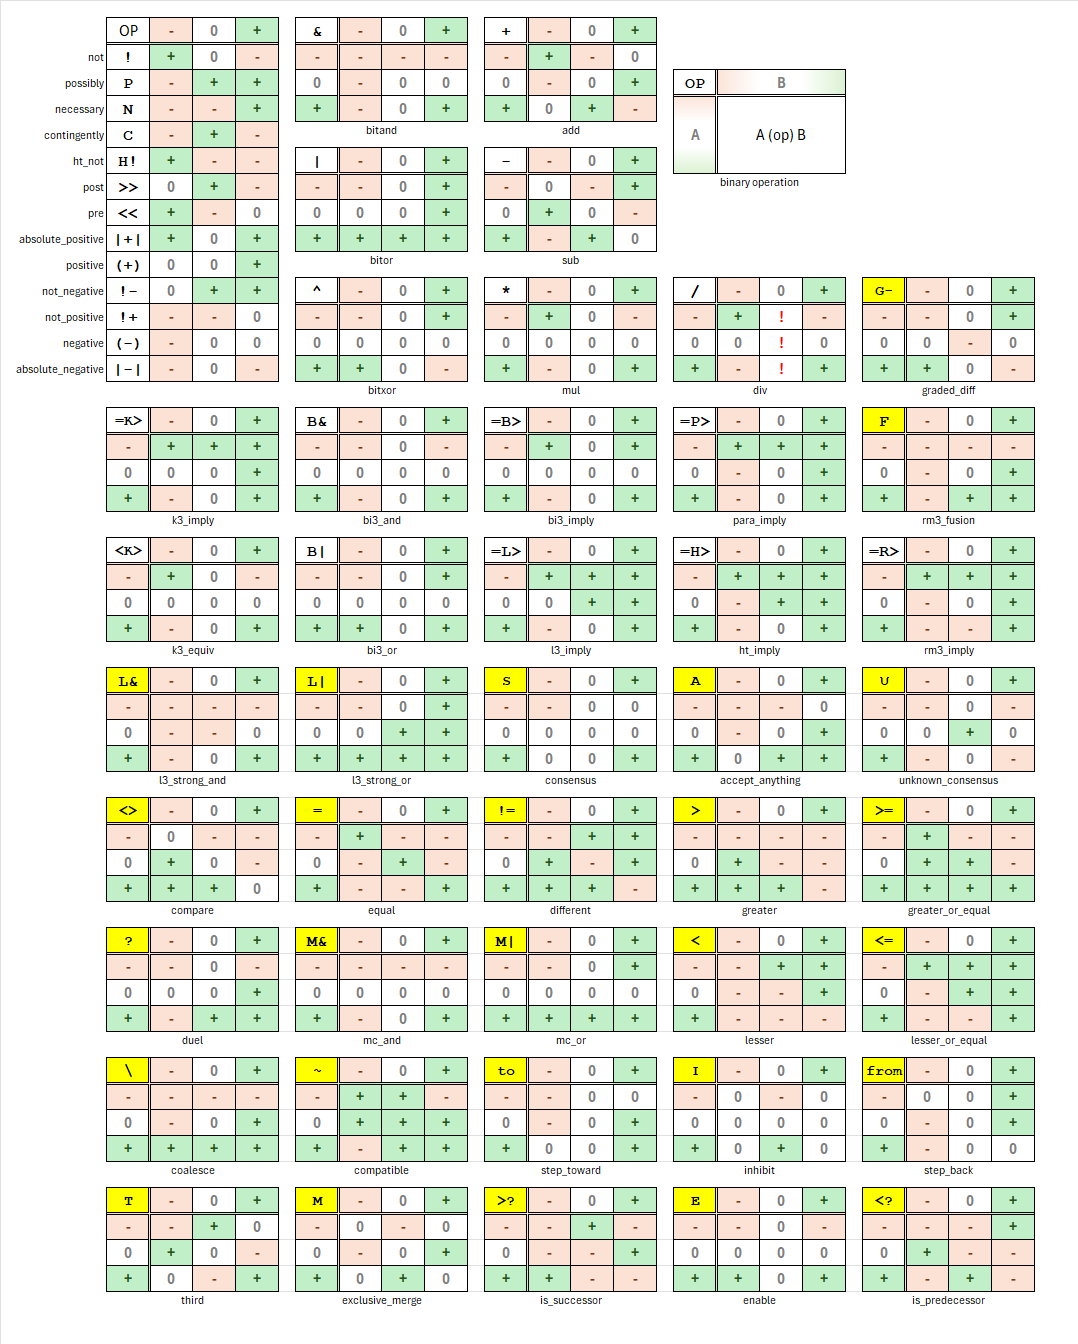
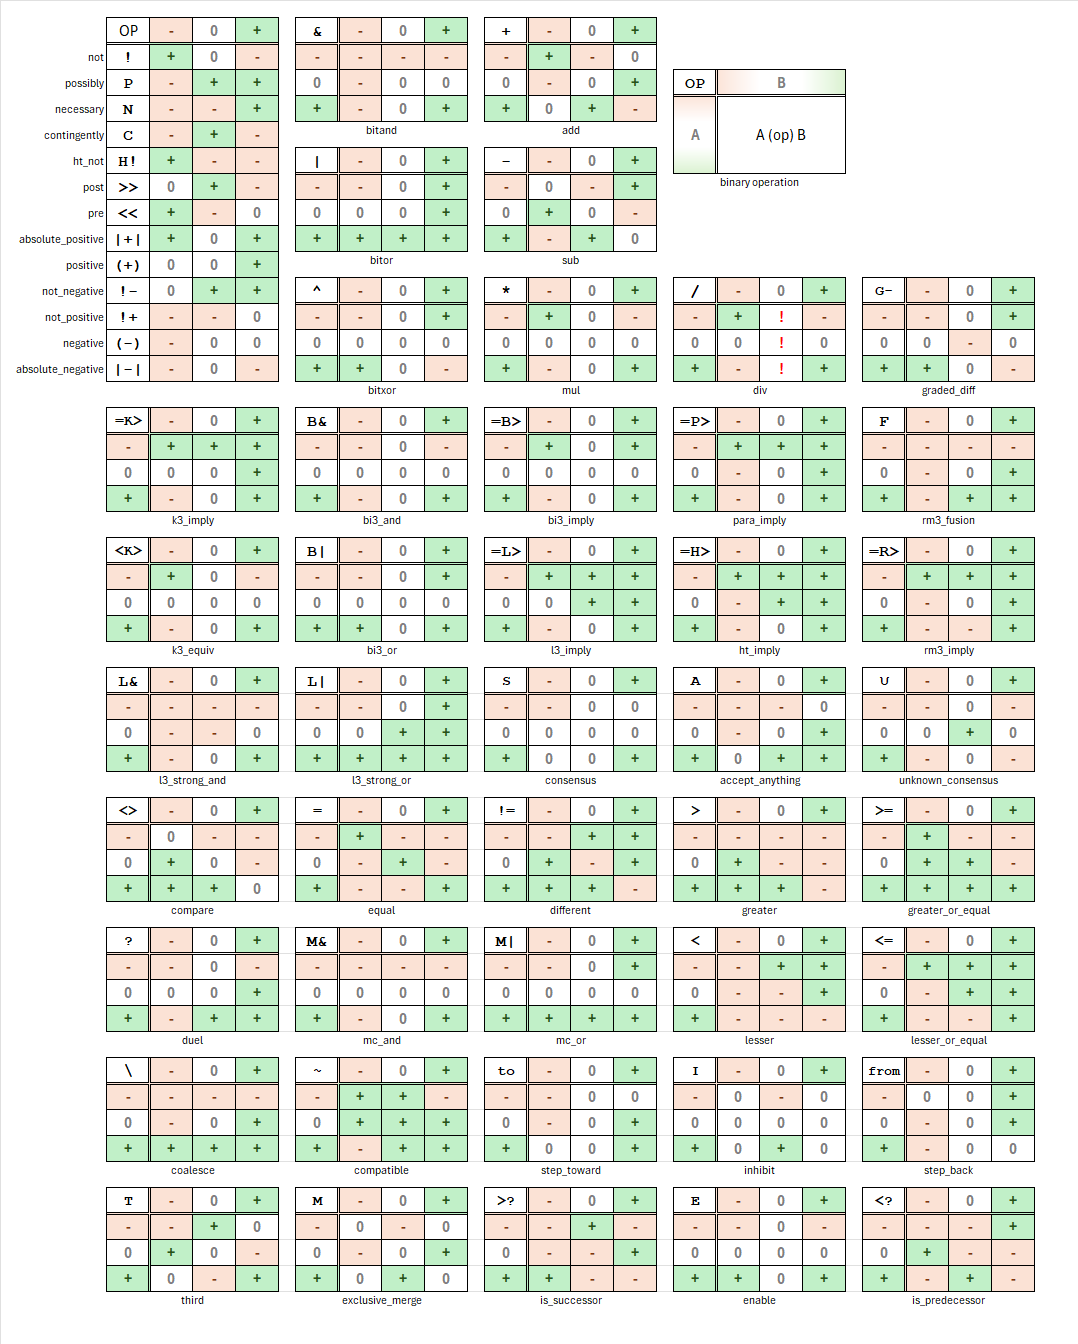
Add ternary Digit operations

diff --git a/src/digit.rs b/src/digit.rs
@@ -604,33 +604,22 @@ impl Digit {
         }
     }
 
-    /// Converts the `Digit` to a `bool` in HT logic.
+    /// Converts `Neg` to `false` and `Pos` to `true`.
     ///
-    /// - Returns:
-    ///     - `true` when `self` is `Digit::Pos`.
-    ///     - `false` when `self` is `Digit::Neg`.
+    /// # Panics
     ///
-    /// - Panics:
-    ///     - Panics if `self` is `Digit::Zero`, as `Digit::Zero` cannot be directly
-    ///       converted to a boolean value.
-    ///       > To ensure `Pos` or `Neg` value, use one of :
-    ///       > * [Digit::possibly]
-    ///       > * [Digit::necessary]
-    ///       > * [Digit::contingently]
-    ///       > * [Digit::ht_not]
-    ///
+    /// Panics on `Zero`. Use [`Self::try_to_bool`] to preserve the unknown value,
+    /// [`Self::possibly`] to resolve it to `Pos`, or [`Self::necessary`] to
+    /// resolve it to `Neg`.
     pub const fn ht_bool(self) -> bool {
-        match self {
-            Digit::Neg => false,
-            Digit::Zero => panic!(
-                "Cannot convert a Digit::Zero to a bool. \
-                 Use Digit::possibly()->try_to_bool()? or Digit::necessary()->try_to_bool()? instead."
-            ),
-            Digit::Pos => true,
-        }
+        self.try_to_bool()
+            .expect("Cannot convert Digit::Zero to bool. Use try_to_bool() to handle Zero.")
     }
 
-    pub fn try_to_bool(self) -> Option<bool> {
+    /// Converts a known digit to a boolean.
+    ///
+    /// Returns `Some(false)` for `Neg`, `None` for `Zero`, and `Some(true)` for `Pos`.
+    pub const fn try_to_bool(self) -> Option<bool> {
         match self {
             Digit::Neg => Some(false),
             Digit::Zero => None,
@@ -667,6 +656,286 @@ impl Digit {
             Digit::Zero => Digit::Neg,
             Digit::Pos => Digit::Zero,
         }
+    }
+
+    /// Grades the distance between two digits.
+    ///
+    /// Equal digits yield `Neg`, adjacent digits yield `Zero`, and opposite
+    /// nonzero digits yield `Pos`. Numerically, the result is `|a - b| - 1`.
+    pub const fn graded_diff(self, other: Self) -> Self {
+        let distance = (self.to_i8() - other.to_i8()).abs();
+        Self::from_i8(distance - 1)
+    }
+
+    /// Computes RM3 fusion.
+    ///
+    /// `Neg` is absorbing and `Zero` is the identity. In particular,
+    /// fusing `Pos` with `Neg` yields `Neg` in either operand order.
+    pub const fn rm3_fusion(self, other: Self) -> Self {
+        match self {
+            Self::Neg => Self::Neg,
+            Self::Zero => other,
+            Self::Pos => other.possibly(),
+        }
+    }
+
+    /// Computes Łukasiewicz strong conjunction.
+    ///
+    /// For balanced digit values `a` and `b`, the result is
+    /// `max(-1, a + b - 1)`. `Pos` is the identity, and combining
+    /// two `Zero` digits yields `Neg`.
+    pub const fn l3_strong_and(self, other: Self) -> Self {
+        match self {
+            Self::Neg => Self::Neg,
+            Self::Zero => other.not_positive(),
+            Self::Pos => other,
+        }
+    }
+
+    /// Computes Łukasiewicz strong disjunction.
+    ///
+    /// For balanced digit values `a` and `b`, the result is
+    /// `min(1, a + b + 1)`. `Neg` is the identity, and combining
+    /// two `Zero` digits yields `Pos`.
+    pub const fn l3_strong_or(self, other: Self) -> Self {
+        match self {
+            Self::Neg => other,
+            Self::Zero => other.not_negative(),
+            Self::Pos => Self::Pos,
+        }
+    }
+
+    /// Returns the shared digit when both operands agree, or `Zero` otherwise.
+    ///
+    /// The result is `Neg` only for `(Neg, Neg)` and `Pos` only for
+    /// `(Pos, Pos)`.
+    pub const fn consensus(self, other: Self) -> Self {
+        if self.to_i8() == other.to_i8() {
+            self
+        } else {
+            Self::Zero
+        }
+    }
+
+    /// Adds the two digits with saturation at `Neg` and `Pos`.
+    ///
+    /// `Zero` is the identity. Opposite signs cancel, and adding two
+    /// identical nonzero digits preserves their sign.
+    pub const fn accept_anything(self, other: Self) -> Self {
+        match self {
+            Self::Neg => other.not_positive(),
+            Self::Zero => other,
+            Self::Pos => other.not_negative(),
+        }
+    }
+
+    /// Grades the number of unknown operands, treating `Zero` as unknown.
+    ///
+    /// Returns `Pos` when both operands are unknown, `Zero` when exactly
+    /// one is unknown, and `Neg` when both are known.
+    pub const fn unknown_consensus(self, other: Self) -> Self {
+        match (self, other) {
+            (Self::Zero, Self::Zero) => Self::Pos,
+            (Self::Zero, _) | (_, Self::Zero) => Self::Zero,
+            _ => Self::Neg,
+        }
+    }
+
+    /// Compares the digits in the order `Neg < Zero < Pos`.
+    ///
+    /// Returns `Neg` when `self` is less than `other`, `Zero` when they
+    /// are equal, and `Pos` when `self` is greater than `other`.
+    pub const fn compare(self, other: Self) -> Self {
+        Self::from_i8((self.to_i8() - other.to_i8()).signum())
+    }
+
+    /// Returns `Pos` when the digits are equal and `Neg` when they differ.
+    ///
+    /// Two `Zero` digits compare equal and therefore yield `Pos`.
+    pub const fn equal(self, other: Self) -> Self {
+        if self.to_i8() == other.to_i8() {
+            Self::Pos
+        } else {
+            Self::Neg
+        }
+    }
+
+    /// Returns `Pos` when the digits differ and `Neg` when they are equal.
+    ///
+    /// Two `Zero` digits therefore yield `Neg`.
+    pub const fn different(self, other: Self) -> Self {
+        if self.to_i8() != other.to_i8() {
+            Self::Pos
+        } else {
+            Self::Neg
+        }
+    }
+
+    /// Returns `Pos` if `self` is strictly greater than `other` in the order
+    /// `Neg < Zero < Pos`, and `Neg` otherwise.
+    pub const fn greater(self, other: Self) -> Self {
+        if self.to_i8() > other.to_i8() {
+            Self::Pos
+        } else {
+            Self::Neg
+        }
+    }
+
+    /// Returns `Pos` if `self` is greater than or equal to `other` in the
+    /// order `Neg < Zero < Pos`, and `Neg` otherwise.
+    pub const fn greater_or_equal(self, other: Self) -> Self {
+        if self.to_i8() >= other.to_i8() {
+            Self::Pos
+        } else {
+            Self::Neg
+        }
+    }
+
+    /// Resolves a rock-paper-scissors duel between two digits.
+    ///
+    /// The winning digit is returned: `Zero` beats `Neg`, `Pos` beats `Zero`,
+    /// and `Neg` beats `Pos`. A tie returns the shared digit.
+    pub const fn duel(self, other: Self) -> Self {
+        match self {
+            Self::Neg => other.absolute_negative(),
+            Self::Zero => other.positive(),
+            Self::Pos => other.possibly(),
+        }
+    }
+
+    /// Computes McCarthy's left-sequential conjunction.
+    ///
+    /// A left operand of `Pos` selects `other`. A left operand of `Neg` or
+    /// `Zero` determines the result regardless of `other`.
+    pub const fn mc_and(self, other: Self) -> Self {
+        match self {
+            Self::Pos => other,
+            _ => self,
+        }
+    }
+
+    /// Computes McCarthy's left-sequential disjunction.
+    ///
+    /// A left operand of `Neg` selects `other`. A left operand of `Zero` or
+    /// `Pos` determines the result regardless of `other`.
+    pub const fn mc_or(self, other: Self) -> Self {
+        match self {
+            Self::Neg => other,
+            _ => self,
+        }
+    }
+
+    /// Returns `Pos` if `self` is strictly less than `other` in the order
+    /// `Neg < Zero < Pos`, and `Neg` otherwise.
+    pub const fn lesser(self, other: Self) -> Self {
+        if self.to_i8() < other.to_i8() {
+            Self::Pos
+        } else {
+            Self::Neg
+        }
+    }
+
+    /// Returns `Pos` if `self` is less than or equal to `other` in the
+    /// order `Neg < Zero < Pos`, and `Neg` otherwise.
+    pub const fn lesser_or_equal(self, other: Self) -> Self {
+        if self.to_i8() <= other.to_i8() {
+            Self::Pos
+        } else {
+            Self::Neg
+        }
+    }
+
+    /// Returns the first nonzero digit, checking `self` before `other`.
+    ///
+    /// If both digits are zero, the result is `Zero`.
+    pub const fn coalesce(self, other: Self) -> Self {
+        match self {
+            Self::Zero => other,
+            _ => self,
+        }
+    }
+
+    /// Returns `Neg` when the digits have opposite nonzero signs and `Pos`
+    /// otherwise. `Zero` is compatible with every digit, including itself.
+    pub const fn compatible(self, other: Self) -> Self {
+        match (self, other) {
+            (Self::Neg, Self::Pos) | (Self::Pos, Self::Neg) => Self::Neg,
+            _ => Self::Pos,
+        }
+    }
+
+    /// Moves `self` one step toward `other` in the order `Neg < Zero < Pos`.
+    ///
+    /// Equal digits stay in place. Adjacent digits reach `other` in one step.
+    /// Moving between `Neg` and `Pos` in either direction yields `Zero`.
+    pub const fn step_toward(self, other: Self) -> Self {
+        Self::from_i8(self.to_i8() + other.compare(self).to_i8())
+    }
+
+    /// Uses `other` to inhibit `self`.
+    ///
+    /// A zero control digit passes `self` through. Either nonzero control
+    /// digit clears the result to `Zero`.
+    pub const fn inhibit(self, other: Self) -> Self {
+        match other {
+            Self::Zero => self,
+            _ => Self::Zero,
+        }
+    }
+
+    /// Returns `other` when the digits differ, or `Zero` when they agree.
+    ///
+    /// For opposite signs, the result takes the sign of `other`.
+    pub const fn step_back(self, other: Self) -> Self {
+        if self.to_i8() == other.to_i8() {
+            Self::Zero
+        } else {
+            other
+        }
+    }
+
+    /// Returns the shared digit for a tie, or the third digit for a distinct pair.
+    ///
+    /// For example, `Neg` and `Zero` yield `Pos` in either operand order.
+    pub const fn third(self, other: Self) -> Self {
+        if self.to_i8() == other.to_i8() {
+            self
+        } else {
+            // The three distinct digit values sum to zero.
+            Self::from_i8(-self.to_i8() - other.to_i8())
+        }
+    }
+
+    /// Returns the sole nonzero digit when exactly one operand is nonzero.
+    /// If both operands are zero or both are nonzero, returns `Zero`.
+    pub const fn exclusive_merge(self, other: Self) -> Self {
+        match (self, other) {
+            (Self::Zero, digit) | (digit, Self::Zero) => digit,
+            _ => Self::Zero,
+        }
+    }
+
+    /// Returns `Pos` if `other` immediately follows `self` in the cycle
+    /// `Neg → Zero → Pos → Neg`, and `Neg` otherwise.
+    pub const fn is_successor(self, other: Self) -> Self {
+        self.post().equal(other)
+    }
+
+    /// Uses `other` to enable `self`.
+    ///
+    /// Either nonzero control digit passes `self` through. A zero control
+    /// digit clears the result to `Zero`.
+    pub const fn enable(self, other: Self) -> Self {
+        match other {
+            Self::Zero => Self::Zero,
+            _ => self,
+        }
+    }
+
+    /// Returns `Pos` if `other` immediately precedes `self` in the cycle
+    /// `Neg → Zero → Pos → Neg`, and `Neg` otherwise.
+    pub const fn is_predecessor(self, other: Self) -> Self {
+        self.pre().equal(other)
     }
 
     /// Encodes this trit as its numeric value plus one.
